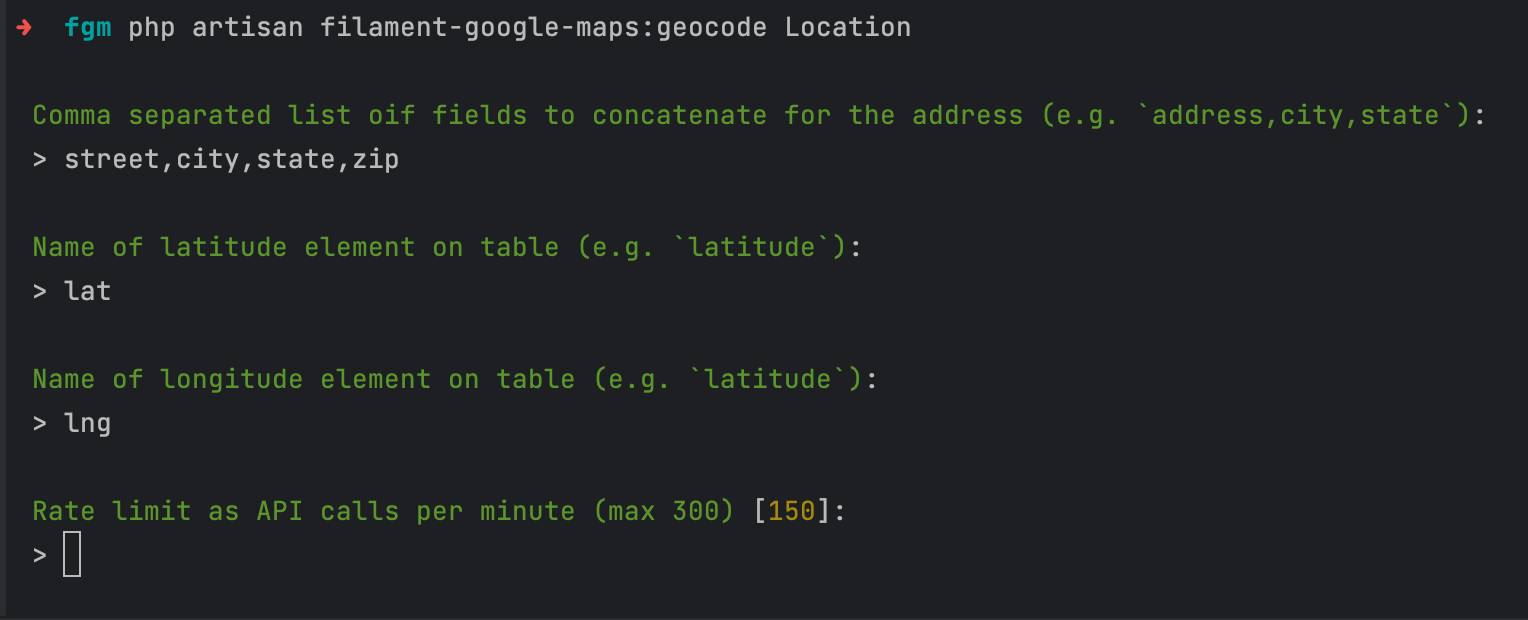
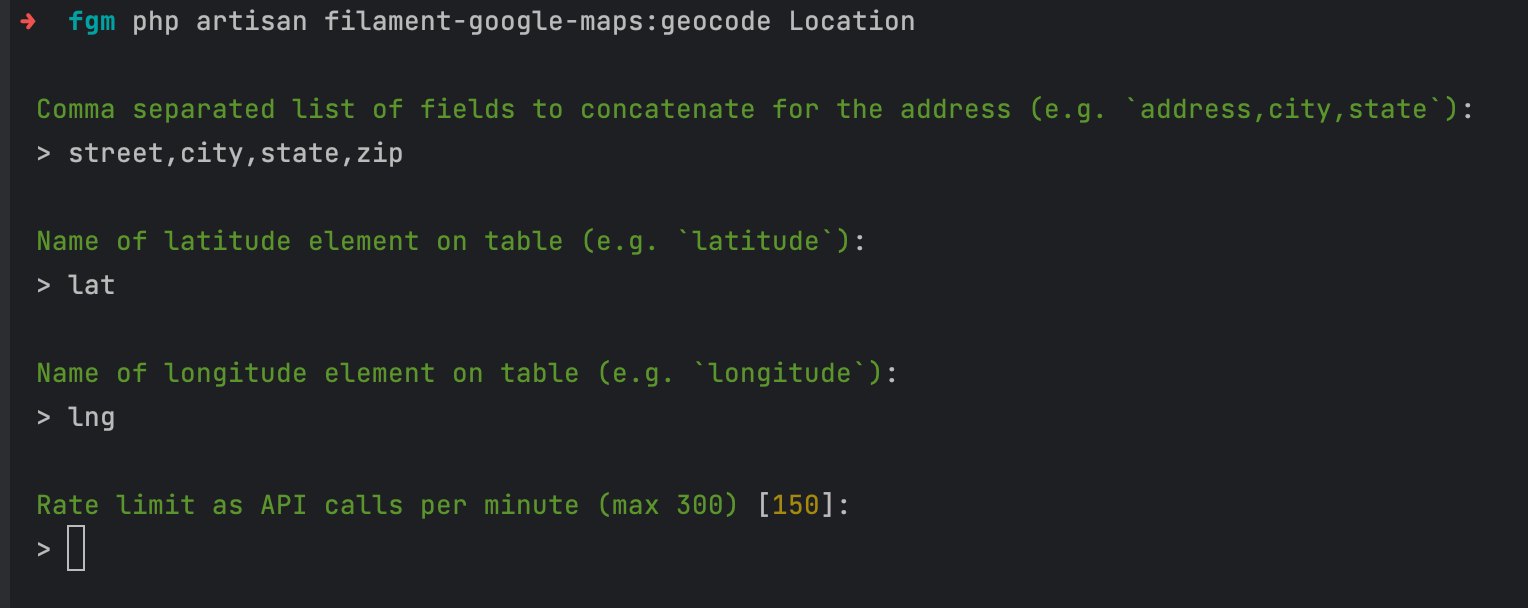
Fixing typos

diff --git a/src/Commands/Geocode.php b/src/Commands/Geocode.php
@@ -50,7 +50,7 @@ class Geocode extends Command
 
         $fields = $this->option('fields')
             ?? $this->askRequired(
-                'Comma separated list oif fields to concatenate for the address (e.g. `address,city,state`)',
+                'Comma separated list of fields to concatenate for the address (e.g. `address,city,state`)',
                 'fields'
             );
 
@@ -62,7 +62,7 @@ class Geocode extends Command
 
         $lng = $this->option('lng')
             ?? $this->askRequired(
-                'Name of longitude element on table (e.g. `latitude`)',
+                'Name of longitude element on table (e.g. `longitude`)',
                 'fields'
             );
 
